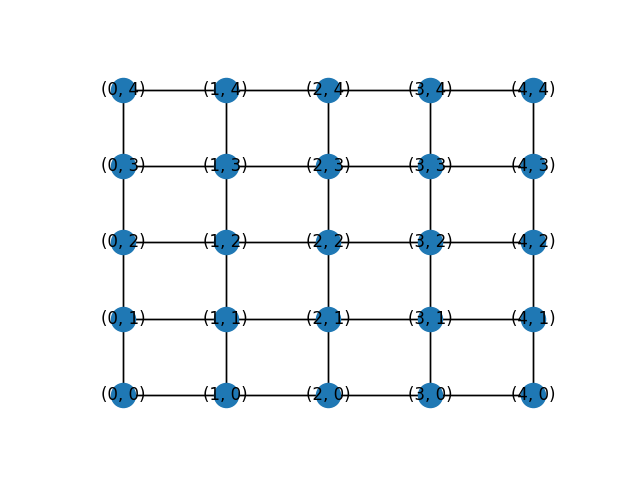
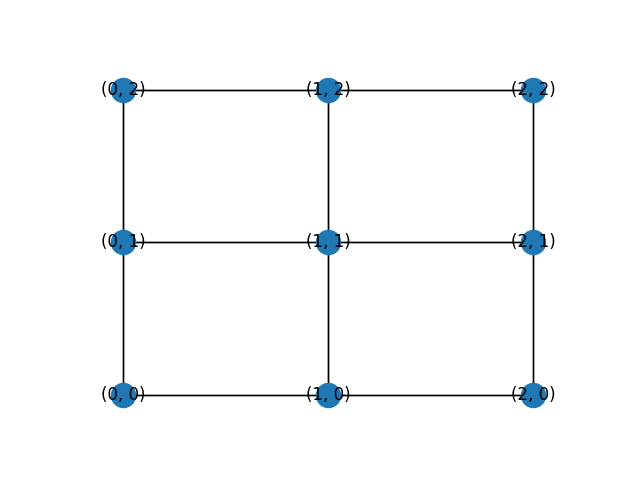
trying to fix center-border source/sink

diff --git a/Angiogenesis.py b/Angiogenesis.py
@@ -85,15 +85,19 @@ def generate_physical_values(graph, source_value, incidence_matrix, corridor_mod
         source_list[int((dimension-1)/2)] = source_value             # source in the center
 
         iterator = 0
-        for x, y in graph.nodes:        # accessing nodes on the border of the network
-            if x == 0 or x == dimension-1:
-                source_list[iterator] = -source_value/(np.sqrt(dimension))
-                print(x, y)
-        iterator += 1
+        for node in graph.nodes:        # accessing nodes on the border of the network
+            if node[0] == 0 or node[0] == np.sqrt(dimension) - 1 or node[1] == 0 or node[1] == np.sqrt(dimension) - 1:
+                source_list[iterator] = -source_value/(4*np.sqrt(dimension)-4)  # number of nodes on the border
+                #print(node)
+               # print(node[0], node[1])
+              #  print(iterator)
+            iterator += 1
+       # print(-source_value / (4*np.sqrt(dimension)-4))
 
     # q = (delta^T)^-1 * S
+    print(incidence_T_inv)
     flow_list = np.dot(source_list, incidence_T_inv)
-    #print("FLOW", flow_list)
+    print("FLOW", flow_list)
 
     # delta*p = K/L * q
     pressure_diff_list = flow_list * length_list * (1/conductivity_list)
@@ -167,6 +171,7 @@ def checking_Murrays_law():
 
 
 def checking_Kirchhoffs_law(graph, source_list):
+    print(source_list)
     index = 0
     successful_nodes = 0
     for node in graph.nodes(data=False):
@@ -174,12 +179,14 @@ def checking_Kirchhoffs_law(graph, source_list):
         for edge in graph.edges(node):
             sum += graph[edge[0]][edge[1]]['flow']
         if -1e-11 < sum - source_list[index] < 1e-11:
-            #print("Kirchhoff's law at node {} fulfilled".format(node))
+            print("Kirchhoff's law at node {} fulfilled".format(node))
             successful_nodes += 1
         else:
-            print("Kirchhoff's law at node {} NOT fulfilled!".format(node), sum - source_list[index])
+            pass
+            #print(sum, '  |', source_list[index])
+            #print("Kirchhoff's law at node {} NOT fulfilled!".format(node), sum - source_list[index])
         index += 1
-    print(successful_nodes, graph.number_of_nodes())
+    print("number of nodes fulfilling K's law:", successful_nodes, 'out of', graph.number_of_nodes())
     if successful_nodes == graph.number_of_nodes():
         print("SUCCESS! Kirchhoff's law fulfilled!")
 
@@ -248,7 +255,7 @@ def run_simulation(nodes_data, edges_data, x, x_dagger, incidence_T_inv, inciden
     energy_functional(conductivity_list, length_list, flow_list, gamma, show_result=True)
     print('simulation time: ', t, ' seconds')
     update_df(pressure_list, length_list, conductivity_list, flow_list, pressure_diff_list, nodes_data, edges_data)
-    return conductivity_list
+    return graph, conductivity_list
 
 
 def draw_graph(graph, name, pos, conductivity_list, flow_list, n):

diff --git a/Simulation.py b/Simulation.py
@@ -7,7 +7,7 @@ start_time = time.time()
 
 hexagonal = False
 triangular = False
-n = 5
+n = 3
 number_of_nodes = n*n
 #adjacency_matrix = an.generate_random_adjacent_matrix(number_of_nodes)
 # random graph
@@ -40,12 +40,12 @@ an.checking_Kirchhoffs_law(graph, source_list)
 an.draw_graph(graph, "graph", pos, conductivity_list, flow_list, n)
 print(edges_data)
 # dK/dt = a*(q / q_hat)^(2*gamma) - b * K + c
-parameters_set = {'a': 3.9, 'b': 1.3, 'gamma': 2/3, 'delta': 1.1, 'nu': 1.1, 'flow_hat': 5.1, 'c': 0.001, 'r': 2, 'dt': 0.1, 'N': 100000}
-conductivity_list = an.run_simulation(nodes_data, edges_data, **arguments, **parameters_set, is_scaled=True)
+parameters_set = {'a': 3.9, 'b': 1.3, 'gamma': 2/3, 'delta': 1.1, 'nu': 1.1, 'flow_hat': 5.1, 'c': 0.001, 'r': 2, 'dt': 0.1, 'N': 1000}
+
+graph, conductivity_list = an.run_simulation(nodes_data, edges_data, **arguments, **parameters_set, is_scaled=True)
 print(edges_data)
 an.draw_graph(graph, "final_graph", pos, conductivity_list, flow_list, n)
 an.checking_Kirchhoffs_law(graph, source_list)
-
 
 
 print("time elapsed: {:.2f}s".format(time.time() - start_time))
